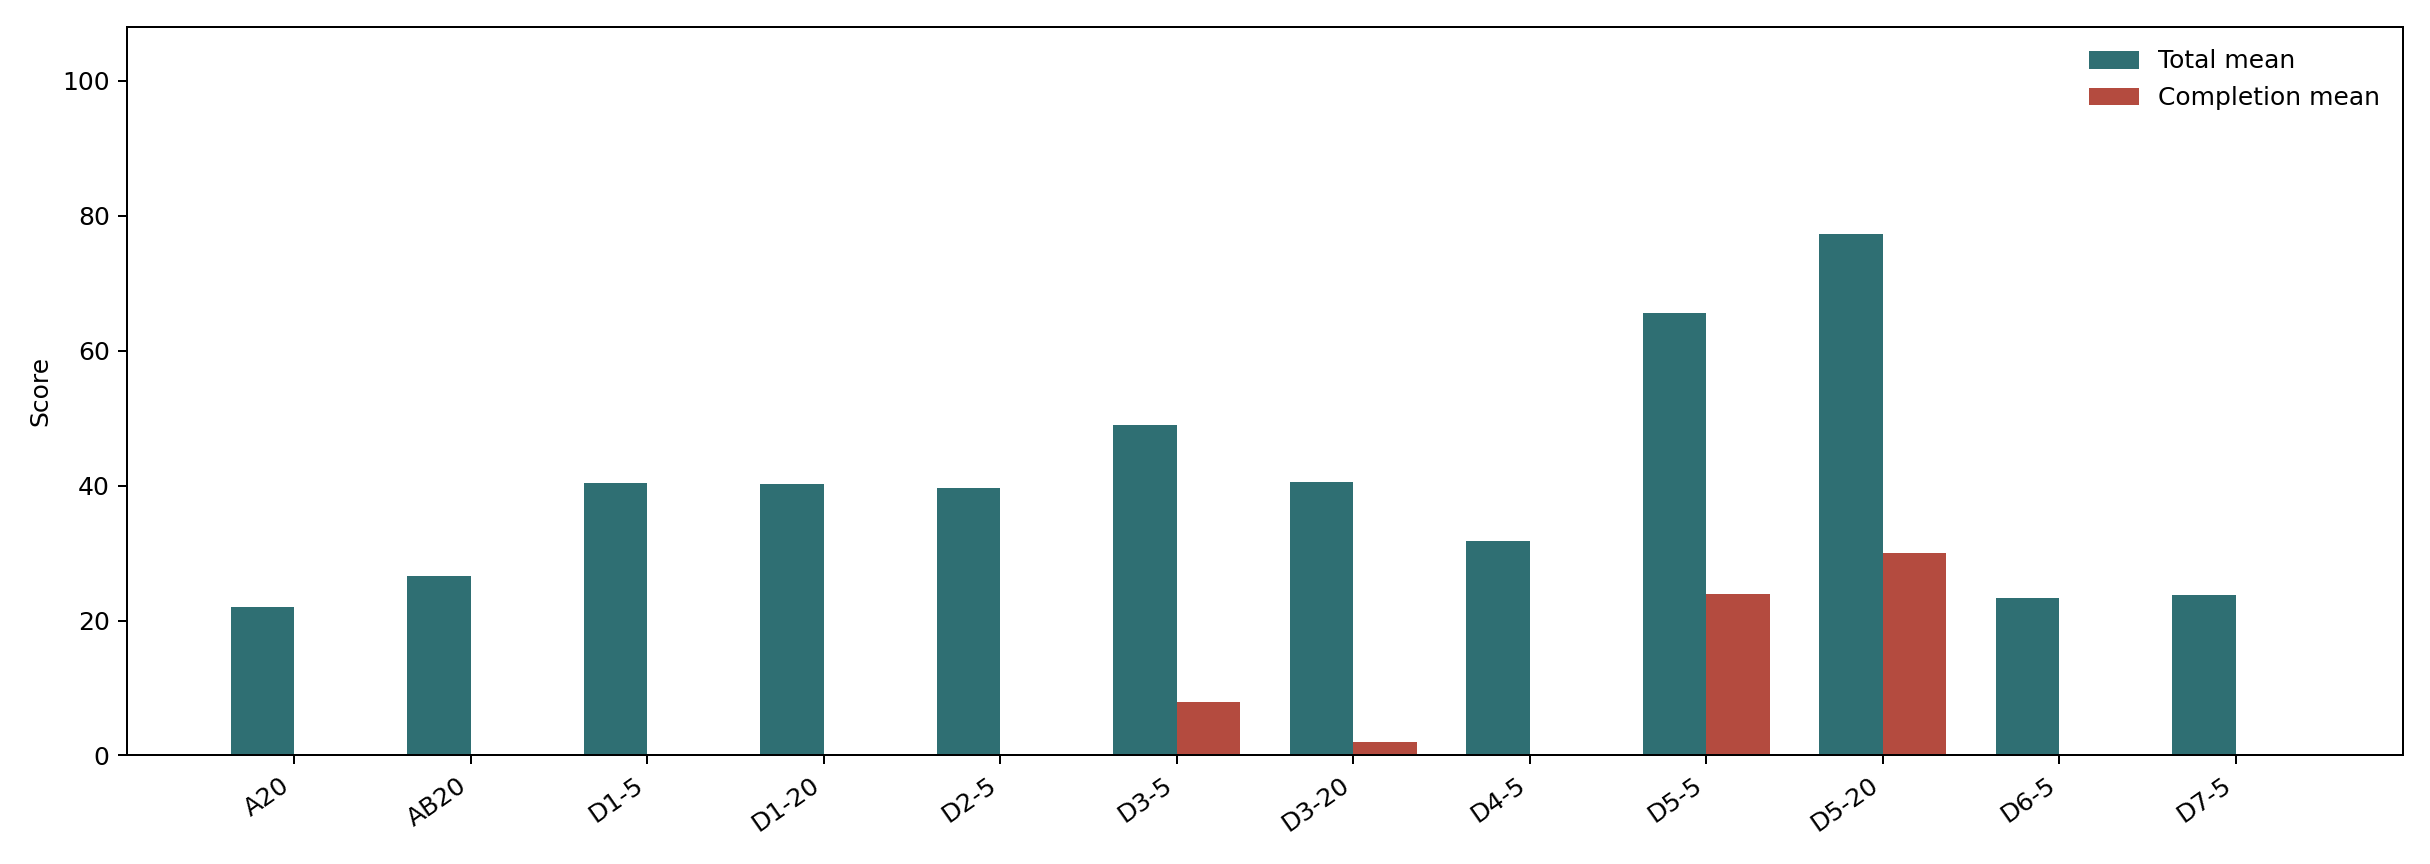
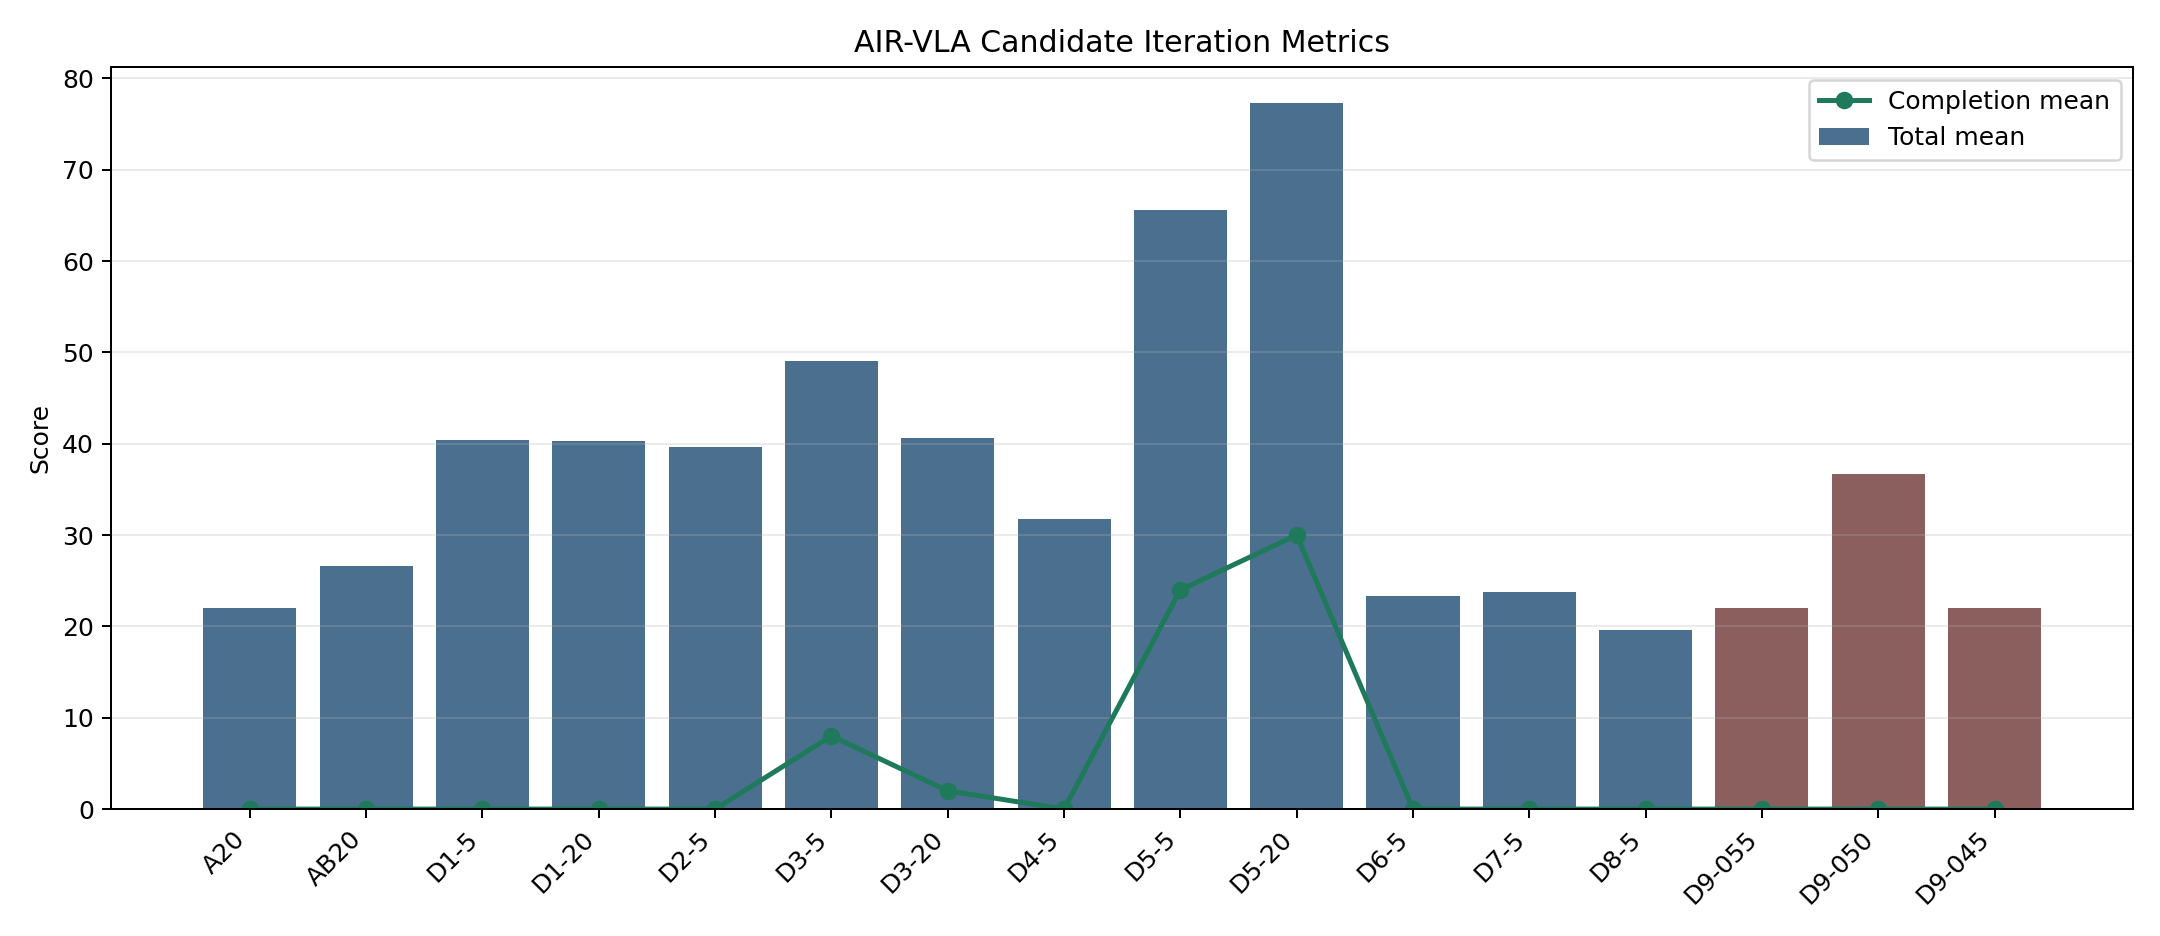
Add D10 audit and latest evaluator media

diff --git a/app.js b/app.js
@@ -421,7 +421,20 @@ function episodeText(episode) {
 }
 
 function renderCandidateIterations(data) {
-  const promoted = new Set(["AB", "D1-20", "D2-5", "D3-20", "D4-5", "D5-5", "D5-20", "D6-5", "D7-5"]);
+  const promoted = new Set([
+    "AB",
+    "D1-20",
+    "D2-5",
+    "D3-20",
+    "D4-5",
+    "D5-5",
+    "D5-20",
+    "D6-5",
+    "D7-5",
+    "D8-5",
+    "D9-050",
+    "D10",
+  ]);
   const rows = data.iterations.filter((item) => promoted.has(item.id) || item.id === "AB");
   const cards = rows.map((item) => {
     const metrics = item.metrics || {};

diff --git a/tools/build_candidate_media.py b/tools/build_candidate_media.py
@@ -57,6 +57,16 @@ CLIPS = [
         "video": "d7_release22_episode_2_loop4s.mp4",
         "gif": "d7_release22_episode_2_loop4s.gif",
     },
+    {
+        "source": "d8_reset_normalized_episode_2.mp4",
+        "video": "d8_reset_normalized_episode_2_loop4s.mp4",
+        "gif": "d8_reset_normalized_episode_2_loop4s.gif",
+    },
+    {
+        "source": "d9_close050_070_episode_2.mp4",
+        "video": "d9_close050_070_episode_2_loop4s.mp4",
+        "gif": "d9_close050_070_episode_2_loop4s.gif",
+    },
 ]
 
 